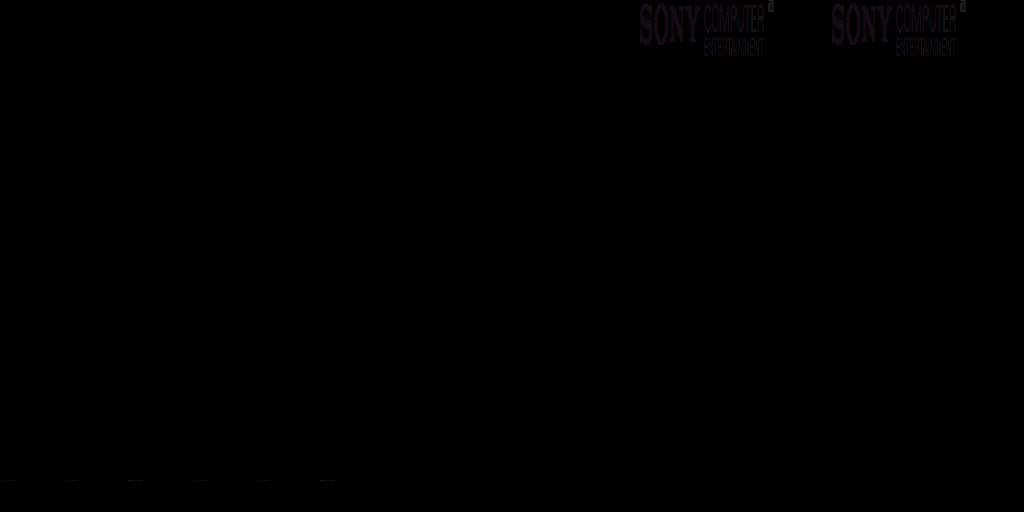
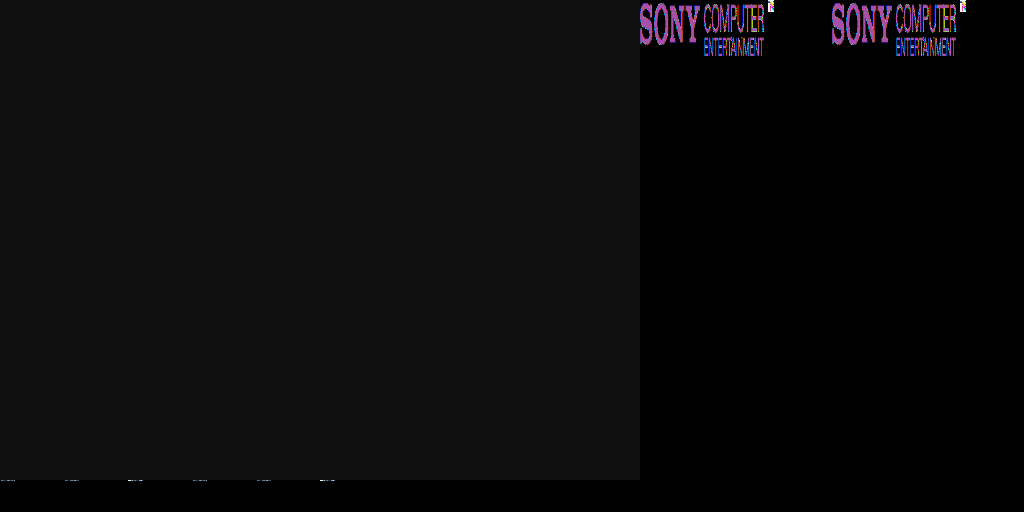
Render basic monochrome polygons

Changed region(s): [[0.8125, 0.0, 0.9688, 0.125], [0.625, 0.0, 0.7812, 0.125]]

diff --git a/Renderer.cpp b/Renderer.cpp
@@ -1,0 +1,103 @@
+#include "Renderer.h"
+#include "GPU.h"
+#include "GPUCommands.h"
+#include "GPUData.h"
+#include <algorithm>
+
+Renderer::Renderer(GPU* gpu) {
+    this->gpu = gpu;
+    
+}
+
+void Renderer::DrawPolygon(const std::vector<uint32_t>& commands) {
+    uint8_t opcode = commands[0] >> 24;
+    PolygonArgs args {opcode};
+    Vertex vertices[4];
+    Color colors[4];
+    Texcoord texcoords[4];
+    Palette palette;
+    // Get data
+    if (args.shaded && args.textured) {
+        for (int i = 0; i < 3 + (args.four_point); i++) {
+            colors[i] = Color(commands[3 * i]);
+            vertices[i] = Vertex(commands[3 * i + 1]);
+            texcoords[i] = Texcoord(commands[3 * i + 2], gpu->GetTexWindowSetting());
+        }
+    } else if (args.shaded) {
+        for (int i = 0; i < 3 + (args.four_point); i++) {
+            colors[i] = Color(commands[2 * i]);
+            vertices[i] = Vertex(commands[2 * i + 1]);
+        }
+    } else if (args.textured) {
+        for (int i = 0; i < 3 + (args.four_point); i++) {
+            colors[i] = Color(commands[0]);
+            vertices[i] = Vertex(commands[2 * i + 1]);
+            texcoords[i] = Texcoord(commands[2 * i + 2], gpu->GetTexWindowSetting());
+        }
+    } else {
+        for (int i = 0; i < 3 + (args.four_point); i++) {
+            colors[i] = Color(commands[0]);
+            vertices[i] = Vertex(commands[i + 1]);
+        }
+    }
+    std::array<Vertex, 3> points = { vertices[0], vertices[1], vertices[2] };
+    DrawTriangle(args, points,
+        { texcoords[0], texcoords[1], texcoords[2] },
+        { colors[0], colors[1], colors[2] });
+    if (args.four_point) {
+        points = { vertices[1], vertices[2], vertices[3] };
+        DrawTriangle(args, points,
+            { texcoords[1], texcoords[2], texcoords[3] },
+            { colors[1], colors[2], colors[3] });
+    }
+    gpu->DumpVRAM();
+}
+
+int orient2D(const Vertex& v1, const Vertex& v2, const Vertex& v3) {
+    return ((int)v2.x - v1.x) * ((int)v3.y - v1.y) - ((int)v2.y - v1.y) * ((int)v3.x - v1.x);
+}
+
+void Renderer::DrawTriangle(const PolygonArgs& args, std::array<Vertex, 3> points,
+    const std::array<Texcoord, 3>& texcoords, const std::array<Color, 3>& colors) {
+    int min_x = std::min(points[0].x, std::min(points[1].x, points[2].x));
+    int min_y = std::min(points[0].y, std::min(points[1].y, points[2].y));
+    int max_x = std::max(points[0].x, std::max(points[1].x, points[2].x));
+    int max_y = std::max(points[0].y, std::max(points[1].y, points[2].y));
+
+    int area = orient2D(points[0], points[1], points[2]);
+    if (area < 0) {
+        std::swap(points[1], points[2]);
+    }
+    Vertex v;
+    for (v.y = min_y; v.y < max_y; v.y++) {
+        for (v.x = min_x; v.x < max_x; v.x++) {
+            // calc barycentric coords (not scaled)
+            int w0 = orient2D(points[1], points[2], v);
+            int w1 = orient2D(points[2], points[0], v);
+            int w2 = orient2D(points[0], points[1], v);
+            if (w0 >= 0 && w1 >= 0 && w2 >= 0) {
+                std::array<int, 3> coords = {w0, w1, w2};
+                Color c;
+                if (!args.shaded && !args.textured) {
+                    c = colors[0];
+                    gpu->GetVRAM()[v.x + 1024 * v.y] = c.raw;
+                } else {
+                    c = GetColorFromBarycentricCoords(colors, coords);
+                }
+                
+            }
+        }
+    }
+}
+
+Color Renderer::GetColorFromBarycentricCoords(const std::array<Color, 3>& colors,
+    const std::array<int, 3>& coords) {
+    float total = (float)(coords[0] + coords[1] + coords[2]);
+    int r = colors[0].r * coords[0] + colors[1].r * coords[1] + colors[2].r * coords[2];
+    int g = colors[0].g * coords[0] + colors[1].g * coords[1] + colors[2].g * coords[2];
+    int b = colors[0].b * coords[0] + colors[1].b * coords[1] + colors[2].b * coords[2];
+    r /= total;
+    g /= total;
+    b /= total;
+    return Color(r, g, b);
+}

diff --git a/GPU.h b/GPU.h
@@ -6,6 +6,7 @@
 
 #include "IRQ.h"
 #include "GPUCommands.h"
+#include "Renderer.h"
 
 class GPU {
 public:
@@ -19,16 +20,20 @@ public:
     void GP1Command(uint32_t command);
 
     void DumpVRAM();
+    using VRAM = std::array<uint16_t, 1024 * 512>;
+    const VRAM& GetVRAM() const { return vram; }
+    VRAM& GetVRAM() { return vram; }
+    const TextureWindowSetting& GetTexWindowSetting() const {return tex_window_settings;};
 private:
+    Renderer renderer = Renderer(this);
     IRQ* irq;
     
     const int kCyclesPerFrame = 33868800 / 60;
     int cycles_ran = 0;
     int frames = 0;
 
-    std::array<uint16_t, 1024 * 512> vram{};
-    uint32_t ReadVRAM();
-    
+    VRAM vram{};
+    uint32_t ReadVRAM();    
 
     uint32_t commands_left = 0;
     std::deque<uint32_t> command_fifo = {};
@@ -60,10 +65,7 @@ private:
     uint32_t horiz_disp_x2 = 0;
     uint32_t vert_disp_y1 = 0;
     uint32_t vert_disp_y2 = 0;
-    uint32_t tex_window_mask_x = 0;     // in 8 pixel steps
-    uint32_t tex_window_mask_y = 0;     // in 8 pixel steps
-    uint32_t tex_window_offset_x = 0;   // in 8 pixel steps
-    uint32_t tex_window_offset_y = 0;   // in 8 pixel steps
+    TextureWindowSetting tex_window_settings;
     uint32_t drawing_area_top = 0;
     uint32_t drawing_area_bottom = 0;
     uint32_t drawing_area_left = 0;
@@ -84,7 +86,7 @@ private:
             uint32_t tex_page_x_base : 4;		// N*64
             uint32_t tex_page_y_base : 1;		// 0 or 256
             uint32_t semi_transparency : 2;		// 0..3=B/2+F/2, B+F, B-F, B+F/4
-            uint32_t tex_page_colors : 2;		// 0..2=4, 8, 15 bits
+            TextureDepth tex_page_colors : 2;		// 0..2=4, 8, 15 bits
             uint32_t dither : 1;				// 0=Off/Strip LSBs, 1=Enabled
             uint32_t draw_to_disp_area : 1;		// 0=Prohibited, 1=Allowed
             uint32_t set_mask_bit : 1;			// 0=No, 1=Yes/Mask

diff --git a/GPUData.h b/GPUData.h
@@ -1,0 +1,64 @@
+#pragma once
+
+#include <cstdint>
+#include "GPUCommands.h"
+
+union Color {
+    uint16_t raw = 0;
+    struct {
+        uint16_t r : 5;
+        uint16_t g : 5;
+        uint16_t b : 5;
+        uint16_t mask : 1;      // 1=Don't overwrite this pixel
+    };
+    Color() : raw(0) {}
+    Color(uint32_t cmd) {
+        r = ((cmd >> 0) & 0xFFu) >> 3;
+        g = ((cmd >> 8) & 0xFFu) >> 3;
+        b = ((cmd >> 16) & 0xFFu) >> 3;
+    }
+    Color(uint8_t r, uint8_t g, uint8_t b) {
+        this->r = r >> 3;
+        this->g = g >> 3;
+        this->b = b >> 3;
+    }
+};
+
+struct Vertex {
+    int16_t x;
+    int16_t y;
+    Vertex() : x(0), y(0) {}
+    Vertex(uint32_t cmd) {
+        x = cmd & 0x7FF;
+        y = (cmd >> 16) & 0x7FF;
+        x = ((int16_t)(x << 5)) >> 5;	// sign extend values
+        y = ((int16_t)(y << 5)) >> 5;
+    }
+};
+
+struct Texcoord {
+    uint8_t x;
+    uint8_t y;
+    Texcoord() : x(0), y(0) {}
+    Texcoord(uint32_t command, const TextureWindowSetting& mode) {
+        x = (command >> 0) & 0xFFu;
+        y = (command >> 8) & 0xFFu;
+        x = (x & ~(mode.tex_window_mask_x * 8)) 
+            | ((mode.tex_window_mask_x & mode.tex_window_offset_x) * 8);
+        y = (y & ~(mode.tex_window_mask_y * 8)) 
+            | ((mode.tex_window_mask_y & mode.tex_window_offset_y) * 8);
+    }
+};
+
+union Palette {
+    uint16_t data = 0;
+    struct {
+        uint16_t x : 6;     // x * 16
+        uint16_t y : 9;
+        uint16_t : 1;
+    };
+    Palette() : data(0) {}
+    Palette(uint32_t command) {
+        data = command >> 16;
+    }
+};

diff --git a/GPUCommands.h b/GPUCommands.h
@@ -71,18 +71,36 @@ union RectangleArgs {
     }
 };
 
+enum class TextureDepth : uint8_t {
+    FourBits = 0,
+    EightBits = 1,
+    FifteenBits = 2,
+    Reserved = 3
+};
+
 union DrawMode {
     uint32_t reg = 0;
     struct {
         uint32_t tex_page_x_base : 4;		// N*64
         uint32_t tex_page_y_base : 1;		// 0 or 256
         uint32_t semi_transparency : 2;		// 0..3=B/2+F/2, B+F, B-F, B+F/4
-        uint32_t tex_page_colors : 2;		// 0..2=4, 8, 15 bits
+        TextureDepth tex_page_colors : 2;		// 0..2=4, 8, 15 bits
         uint32_t dither : 1;				// 0=Off/Strip LSBs, 1=Enabled
         uint32_t draw_to_disp_area : 1;		// 0=Prohibited, 1=Allowed
         uint32_t tex_disable : 1;			// 0=Normal, 1=Disable Textures
         uint32_t tex_rect_x_flip : 1;		// BIOS sets this on power up?
         uint32_t tex_rect_y_flip : 1;		// BIOS sets this on GPUSTAT.13?
         uint32_t : 18;
+    };
+};
+
+union TextureWindowSetting {
+    uint32_t reg = 0;
+    struct {
+        uint32_t tex_window_mask_x : 5;     // in 8 pixel steps
+        uint32_t tex_window_mask_y : 5;     // in 8 pixel steps
+        uint32_t tex_window_offset_x : 5;   // in 8 pixel steps
+        uint32_t tex_window_offset_y : 5;   // in 8 pixel steps
+        uint32_t : 12;
     };
 };

diff --git a/GPU.cpp b/GPU.cpp
@@ -1,5 +1,4 @@
 #include "GPU.h"
-#include "Shapes.h"
 #include <cassert>
 #include <cstdio>
 #define STB_IMAGE_WRITE_IMPLEMENTATION
@@ -164,8 +163,8 @@ void GPU::GP0Command(uint32_t command) {
 	if (curr_cmd == CommandType::DrawPolygon) {
 		printf("Drawing polygon\n");
 		uint8_t opcode = command_fifo[0] >> 24;
-		Polygon p(PolygonArgs{opcode}, command_fifo);
-		
+		std::vector<uint32_t> commands(command_fifo.begin(), command_fifo.end());
+		renderer.DrawPolygon(commands);
 		curr_cmd = CommandType::Other;
 	} else if (curr_cmd == CommandType::CopyRectangle) {
 		uint32_t coords = command_fifo[1];
@@ -247,10 +246,7 @@ void GPU::DrawModeSetting(uint32_t command) {
 }
 
 void GPU::TexModeSetting(uint32_t command) {
-	tex_window_mask_x = command & 0x1F;
-	tex_window_mask_y = (command >> 5) & 0x1F;
-	tex_window_offset_x = (command >> 10) & 0x1F;
-	tex_window_offset_y = (command >> 15) & 0x1F;
+	tex_window_settings.reg = command;
 }
 
 void GPU::SetDrawingAreaTopLeft(uint32_t command) {

diff --git a/Renderer.h b/Renderer.h
@@ -1,0 +1,22 @@
+#pragma once
+
+#include <vector>
+#include <cstdint>
+#include <array>
+#include "GPUData.h"
+
+class GPU;
+
+class Renderer {
+public:
+    Renderer(GPU* gpu);
+    void DrawPolygon(const std::vector<uint32_t>& commands);
+private:
+    void DrawTriangle(const PolygonArgs& args, std::array<Vertex, 3> points,
+        const std::array<Texcoord, 3>& texcoords, const std::array<Color, 3>& colors);
+    Color GetColorFromBarycentricCoords(const std::array<Color, 3>& colors,
+        const std::array<int, 3>& coords);
+    //Color GetTextureColor();
+    GPU* gpu;
+};
+

diff --git a/PSX.cpp b/PSX.cpp
@@ -204,7 +204,6 @@ void PSX::Write8(uint32_t address, const uint8_t data) {
     } else if (address >= CDROM_START
         && address + 1 <= CDROM_START + CDROM_SIZE) {
         sys_cdrom->Write8(address - CDROM_START, data);
-        sys_gpu->DumpVRAM();
     } else {
         printf("Unhandled write of size 8 at address %08x, data %08x\n", address, data);
         assert(false);
